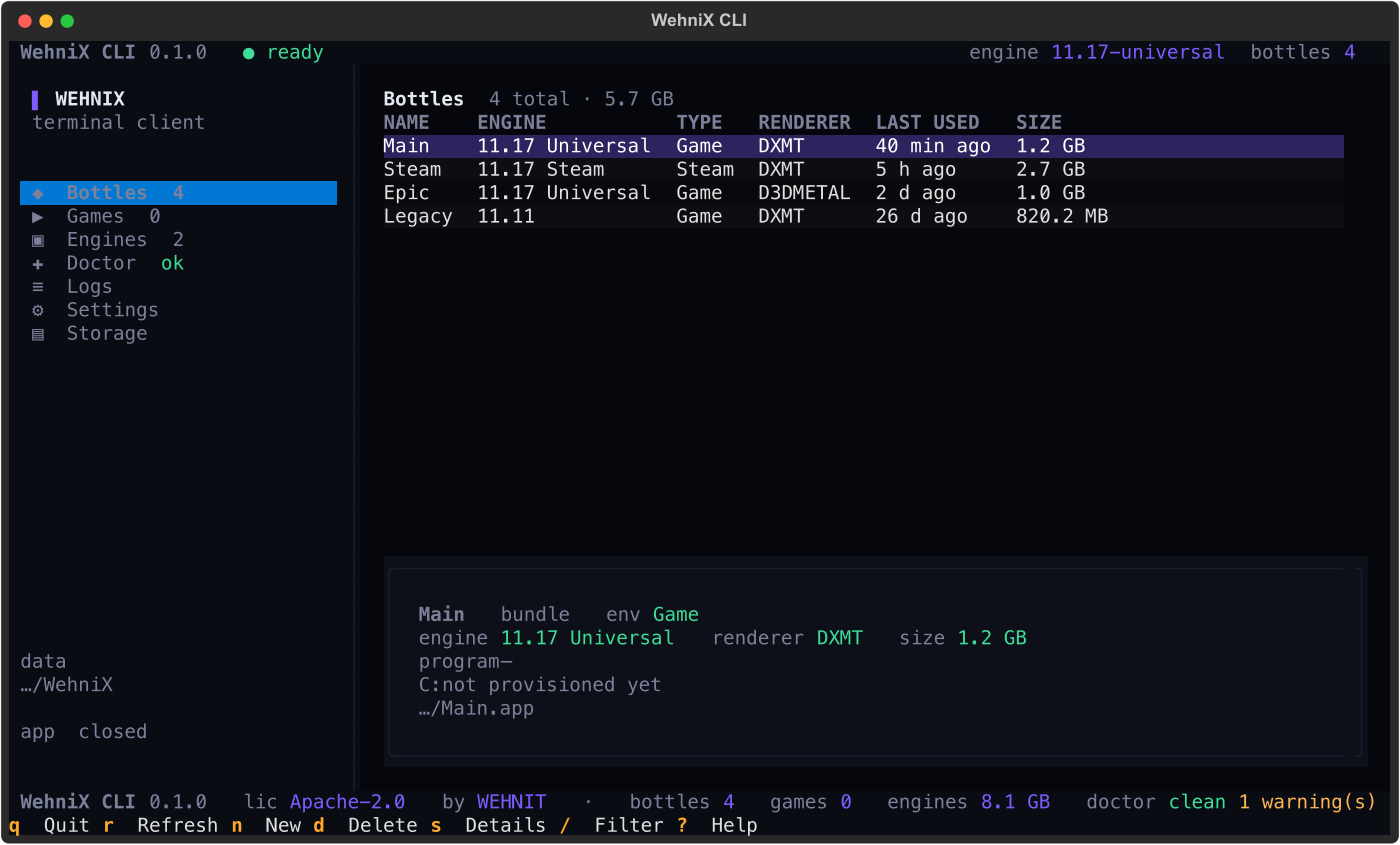
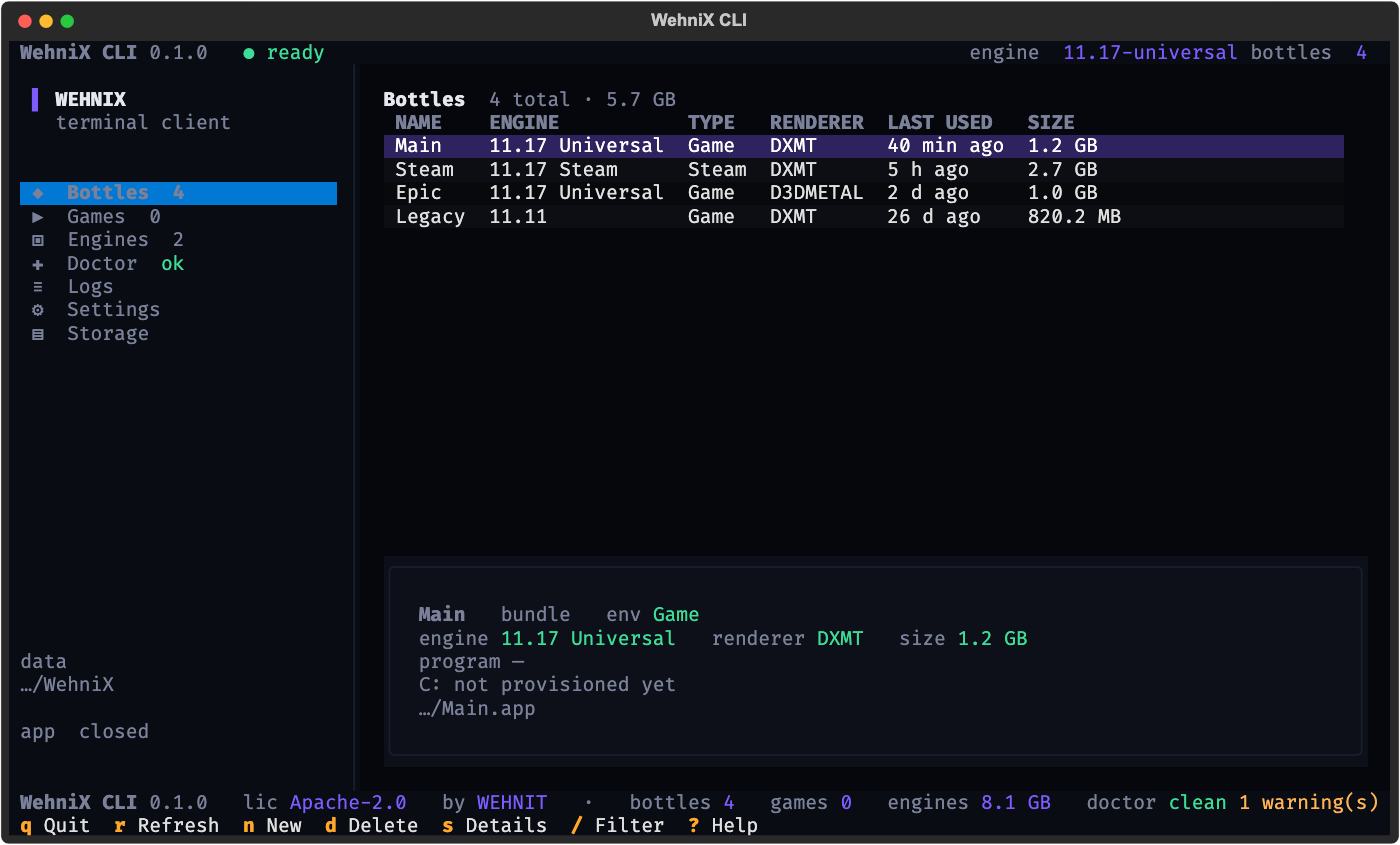
Render the README screenshot with Chrome so label spacing survives

diff --git a/scripts/make_screenshot.py b/scripts/make_screenshot.py
@@ -1,5 +1,5 @@
 #!/usr/bin/env python3
-"""Render the interface to docs/cli.svg.
+"""Render the interface to docs/cli.svg and docs/cli.png.
 
     python3 scripts/make_screenshot.py
 
@@ -7,13 +7,18 @@ Builds a throwaway state folder from tests/fixtures/state so the picture is
 identical on any machine: same four bottles, two installed engines, plausible
 "last used" times. It lives in the system temporary folder and is removed
 afterwards, so the picture never touches the real WehniX data.
+
+The PNG is the image the README shows. Chrome renders it, because rsvg squeezes
+the spaces that separate a label from its value in the exported SVG.
 """
 
 from __future__ import annotations
 
 import asyncio
 import os
+import re
 import shutil
+import subprocess
 import sys
 import tempfile
 import time
@@ -26,6 +31,8 @@ from wehnix_cli.tui.app import WehniXCLI  # noqa: E402
 
 FIXTURE = ROOT / "tests" / "fixtures" / "state"
 OUTPUT = ROOT / "docs" / "cli.svg"
+PNG = ROOT / "docs" / "cli.png"
+CHROME = Path("/Applications/Google Chrome.app/Contents/MacOS/Google Chrome")
 
 # Sparse files: the CLI only ever stats an engine archive, so 4.2 GB costs no
 # disk and keeps the picture honest about what a real install looks like.
@@ -74,6 +81,39 @@ async def render() -> None:
             print(f"wrote {OUTPUT}")
     finally:
         shutil.rmtree(state.parent, ignore_errors=True)
+    render_png()
+
+
+def render_png() -> None:
+    """Turn the SVG into the PNG the README shows, at a readable size."""
+    if not CHROME.is_file():
+        print("Chrome not installed; docs/cli.png was not refreshed")
+        return
+    header = re.search(r'<svg[^>]*width="(\d+)"[^>]*height="(\d+)"', OUTPUT.read_text())
+    if header is None:
+        print("Could not read the SVG size; docs/cli.png was not refreshed")
+        return
+    width, height = (int(header.group(1)), int(header.group(2)))
+    completed = subprocess.run(
+        [
+            str(CHROME),
+            "--headless=new",
+            "--disable-gpu",
+            "--hide-scrollbars",
+            "--force-device-scale-factor=1.5",
+            f"--window-size={width},{height}",
+            f"--screenshot={PNG}",
+            OUTPUT.as_uri(),
+        ],
+        capture_output=True,
+        text=True,
+        timeout=120,
+        check=False,
+    )
+    if completed.returncode != 0 or not PNG.is_file():
+        print(f"Chrome could not render the PNG: {completed.stderr.strip()[:200]}")
+        return
+    print(f"wrote {PNG}")
 
 
 if __name__ == "__main__":
